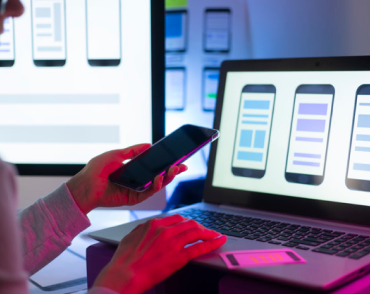
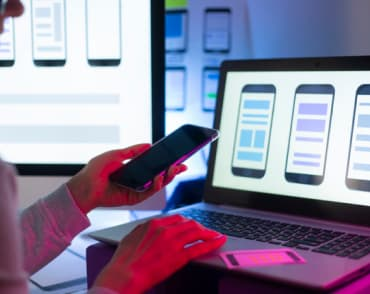
Оптимізація зображень

diff --git a/index.html b/index.html
@@ -18,13 +18,12 @@
                 <li><a href="#">Портфоліо</a></li>
                 <li><a href="#">Контакти</a></li>
             </ul>
-        
-      
-            <ul>
-                <li><a href="">info@devstudio.com</a></li>
-                <li><a href="">+38 096 111 11 11</a></li>
-            </ul>
         </nav>
+
+        <ul>
+            <li><a href="mailto:info@devstudio.com">info@devstudio.com</a></li>
+            <li><a href="tel:+380961111111">+38 096 111 11 11</a></li>
+        </ul>
 
     </header>
 
